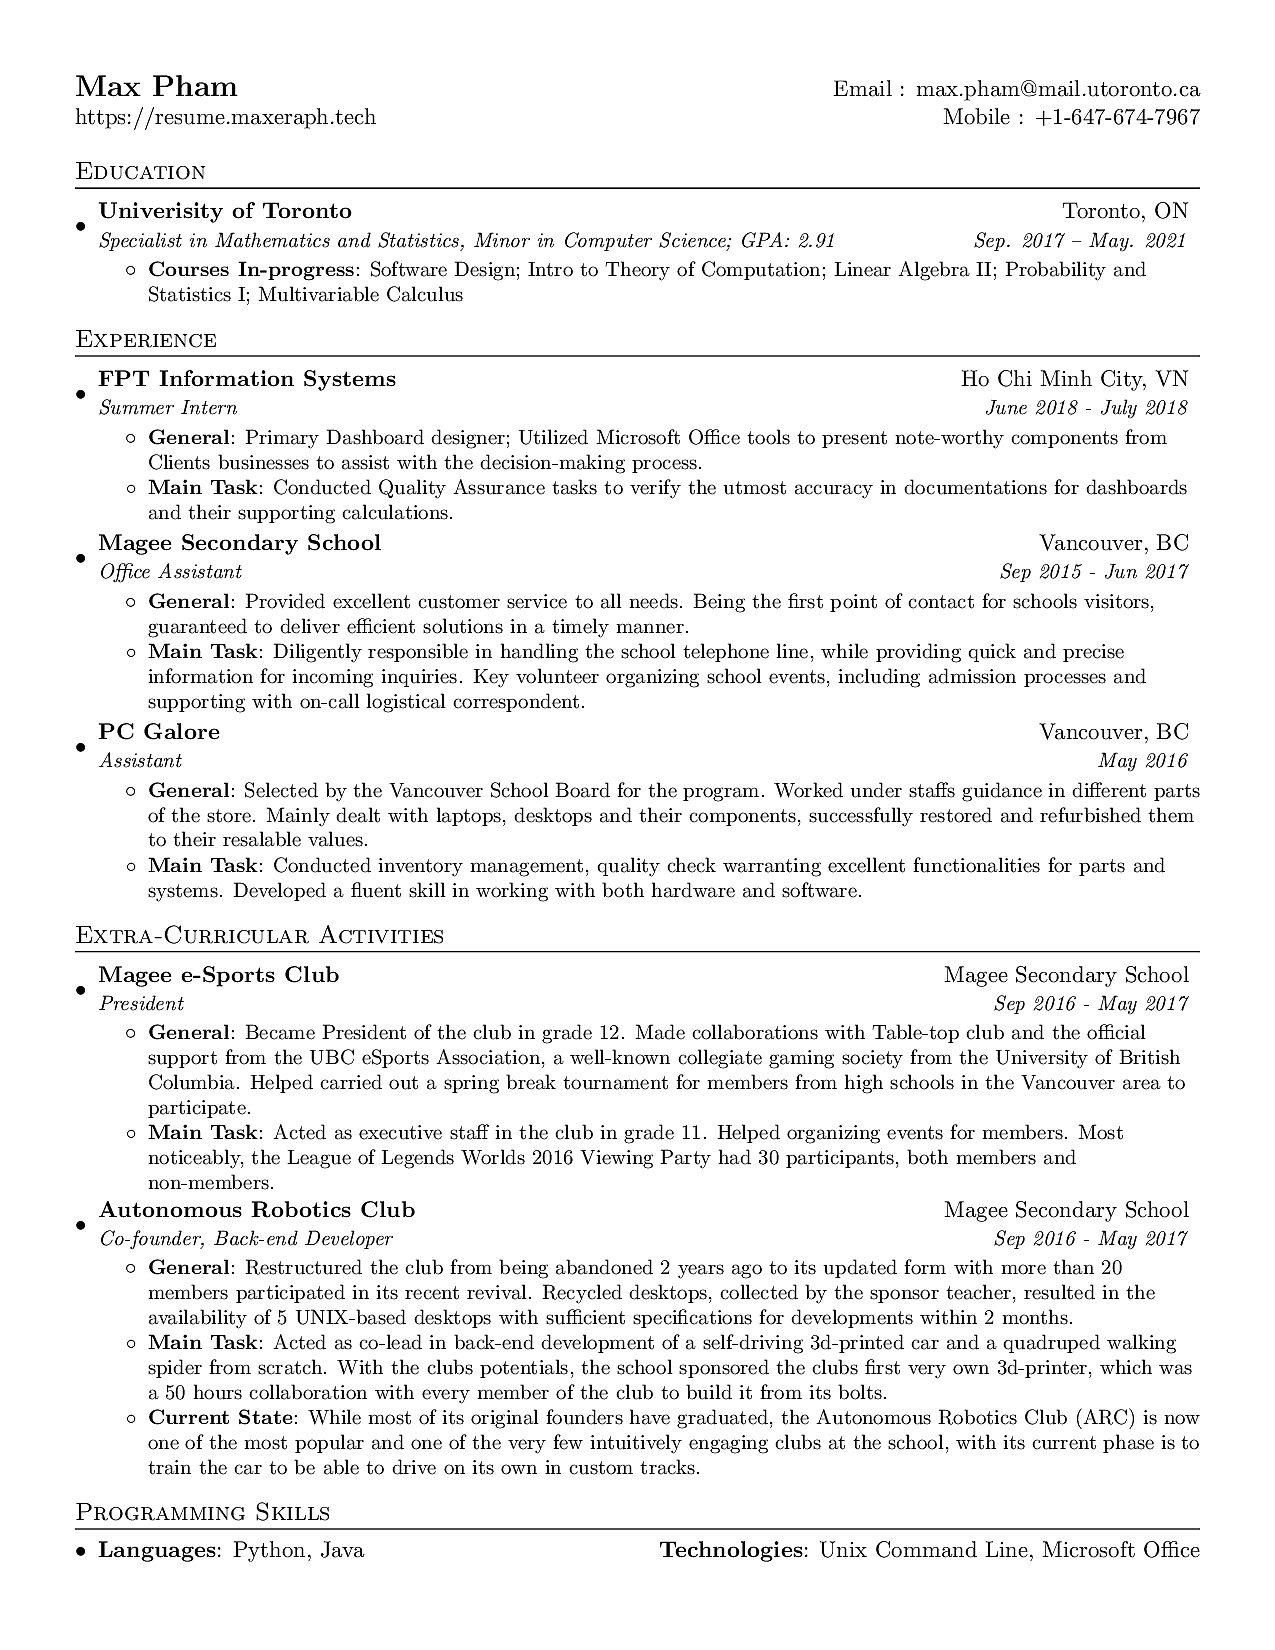
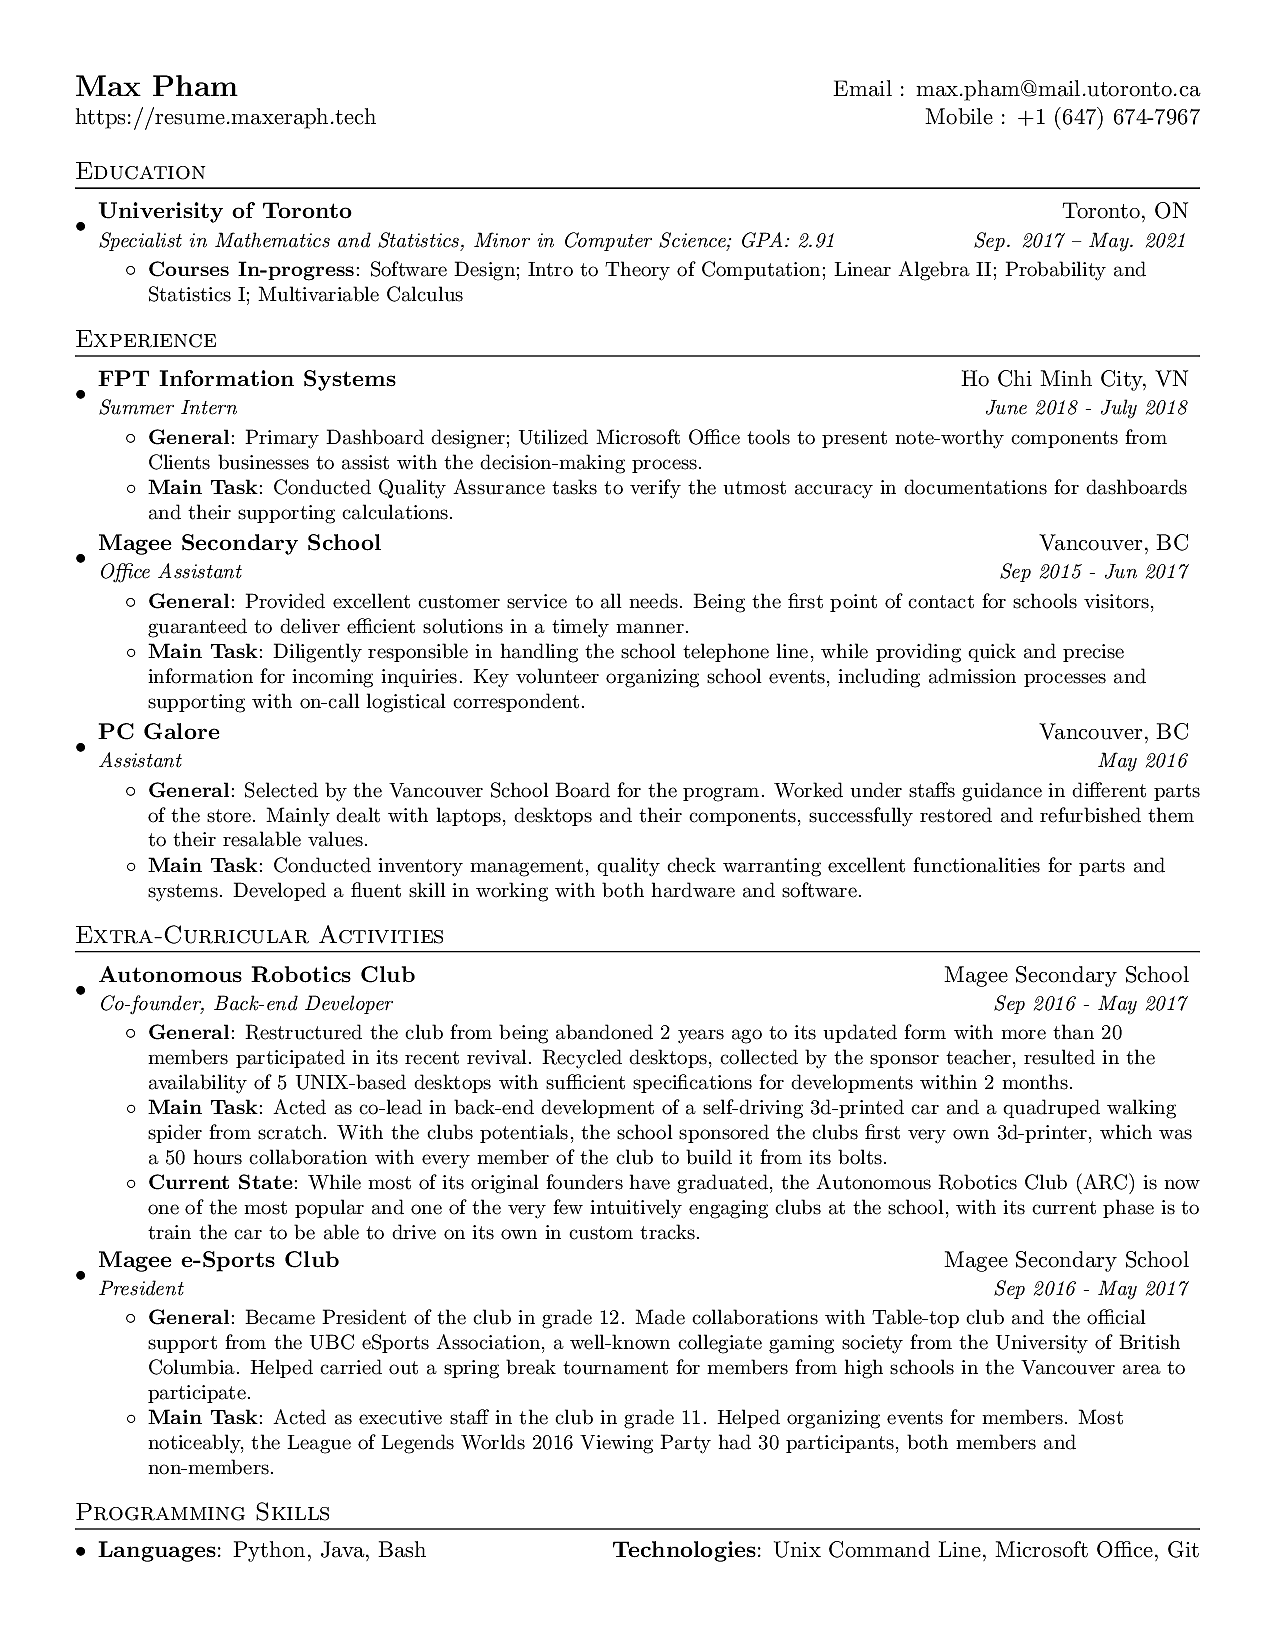
update

diff --git a/max_resume.tex b/max_resume.tex
@@ -75,7 +75,7 @@
 %----------HEADING-----------------
 \begin{tabular*}{\textwidth}{l@{\extracolsep{\fill}}r}
   \textbf{\href{https://resume.maxeraph.tech}{\Large Max Pham}} & Email : \href{mailto:max.pham@mail.utoronto.ca}{max.pham@mail.utoronto.ca}\\
-  \href{https://resume.maxeraph.tech}{https://resume.maxeraph.tech} & Mobile : +1-647-674-7967 \\
+  \href{https://resume.maxeraph.tech}{https://resume.maxeraph.tech} & Mobile : +1 (647) 674-7967 \\
 \end{tabular*}
 
 
@@ -135,16 +135,6 @@
 \section{Extra-Curricular Activities}
   \resumeSubHeadingListStart
     \resumeSubheading
-      {Magee e-Sports Club}{Magee Secondary School}
-      {President}{Sep 2016 - May 2017}
-      \resumeItemListStart
-        \resumeItem{General}
-          {Became President of the club in grade 12. Made collaborations with Table-top club and the official support from the UBC eSports Association, a well-known collegiate gaming society from the University of British Columbia. Helped carried out a spring break tournament for members from high schools in the Vancouver area to participate.}
-        \resumeItem{Main Task}
-          {Acted as executive staff in the club in grade 11. Helped organizing events for members. Most noticeably, the League of Legends Worlds 2016 Viewing Party had 30 participants, both members and non-members.}
-      \resumeItemListEnd
-
-    \resumeSubheading
       {Autonomous Robotics Club}{Magee Secondary School}
       {Co-founder, Back-end Developer}{Sep 2016 - May 2017}
       \resumeItemListStart
@@ -155,6 +145,16 @@
         \resumeItem{Current State}
           {While most of its original founders have graduated, the Autonomous Robotics Club (ARC) is now one of the most popular and one of the very few intuitively engaging clubs at the school, with its current phase is to train the car to be able to drive on its own in custom tracks.}
       \resumeItemListEnd
+
+    \resumeSubheading
+      {Magee e-Sports Club}{Magee Secondary School}
+      {President}{Sep 2016 - May 2017}
+      \resumeItemListStart
+        \resumeItem{General}
+          {Became President of the club in grade 12. Made collaborations with Table-top club and the official support from the UBC eSports Association, a well-known collegiate gaming society from the University of British Columbia. Helped carried out a spring break tournament for members from high schools in the Vancouver area to participate.}
+        \resumeItem{Main Task}
+          {Acted as executive staff in the club in grade 11. Helped organizing events for members. Most noticeably, the League of Legends Worlds 2016 Viewing Party had 30 participants, both members and non-members.}
+      \resumeItemListEnd
     \resumeSubHeadingListEnd
 
 
@@ -162,9 +162,9 @@
 \section{Programming Skills}
  \resumeSubHeadingListStart
    \item{
-     \textbf{Languages}{: Python, Java}
+     \textbf{Languages}{: Python, Java, Bash}
      \hfill
-     \textbf{Technologies}{: Unix Command Line, Microsoft Office}
+     \textbf{Technologies}{: Unix Command Line, Microsoft Office, Git}
    }
  \resumeSubHeadingListEnd
 
